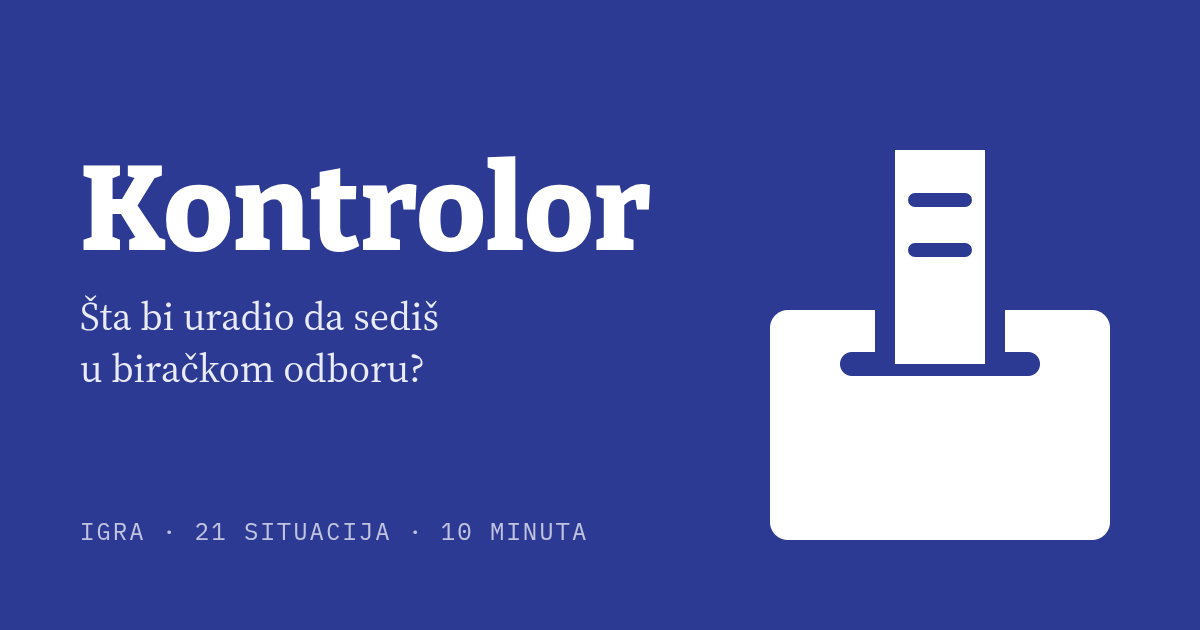
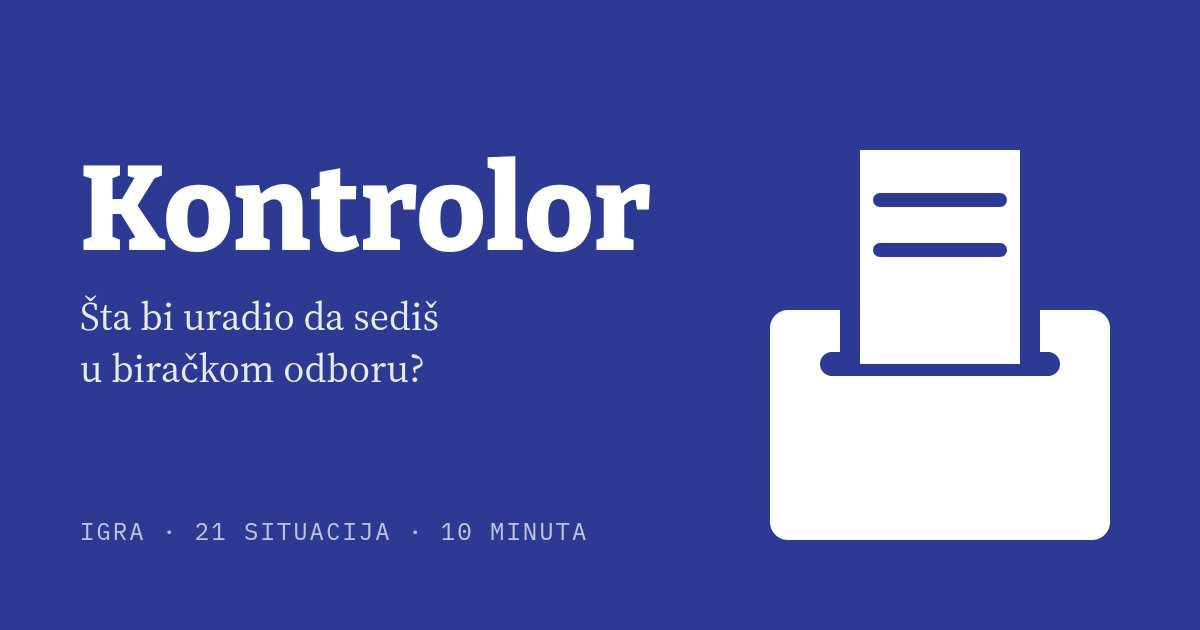
feat: kontrolor image
Change Kontrolor image in meta image and game card

Changed region(s): [[0.6783, 0.2413, 0.7708, 0.6032], [0.8017, 0.2413, 0.8942, 0.6032]]

diff --git a/CHANGELOG.md b/CHANGELOG.md
@@ -4,6 +4,9 @@ Sve značajne izmene krovne stranice Izborni dan beleže se u ovom fajlu. Brojev
 
 ## [Neobjavljeno]
 
+### Promenjeno
+- Širi glasački listić na slici kartice Kontrolora i na pločici Kontrolora na slici za deljenje (`og-image.png`).
+
 ## [1.0.0] - 2026-10-13
 
 ### Dodato
